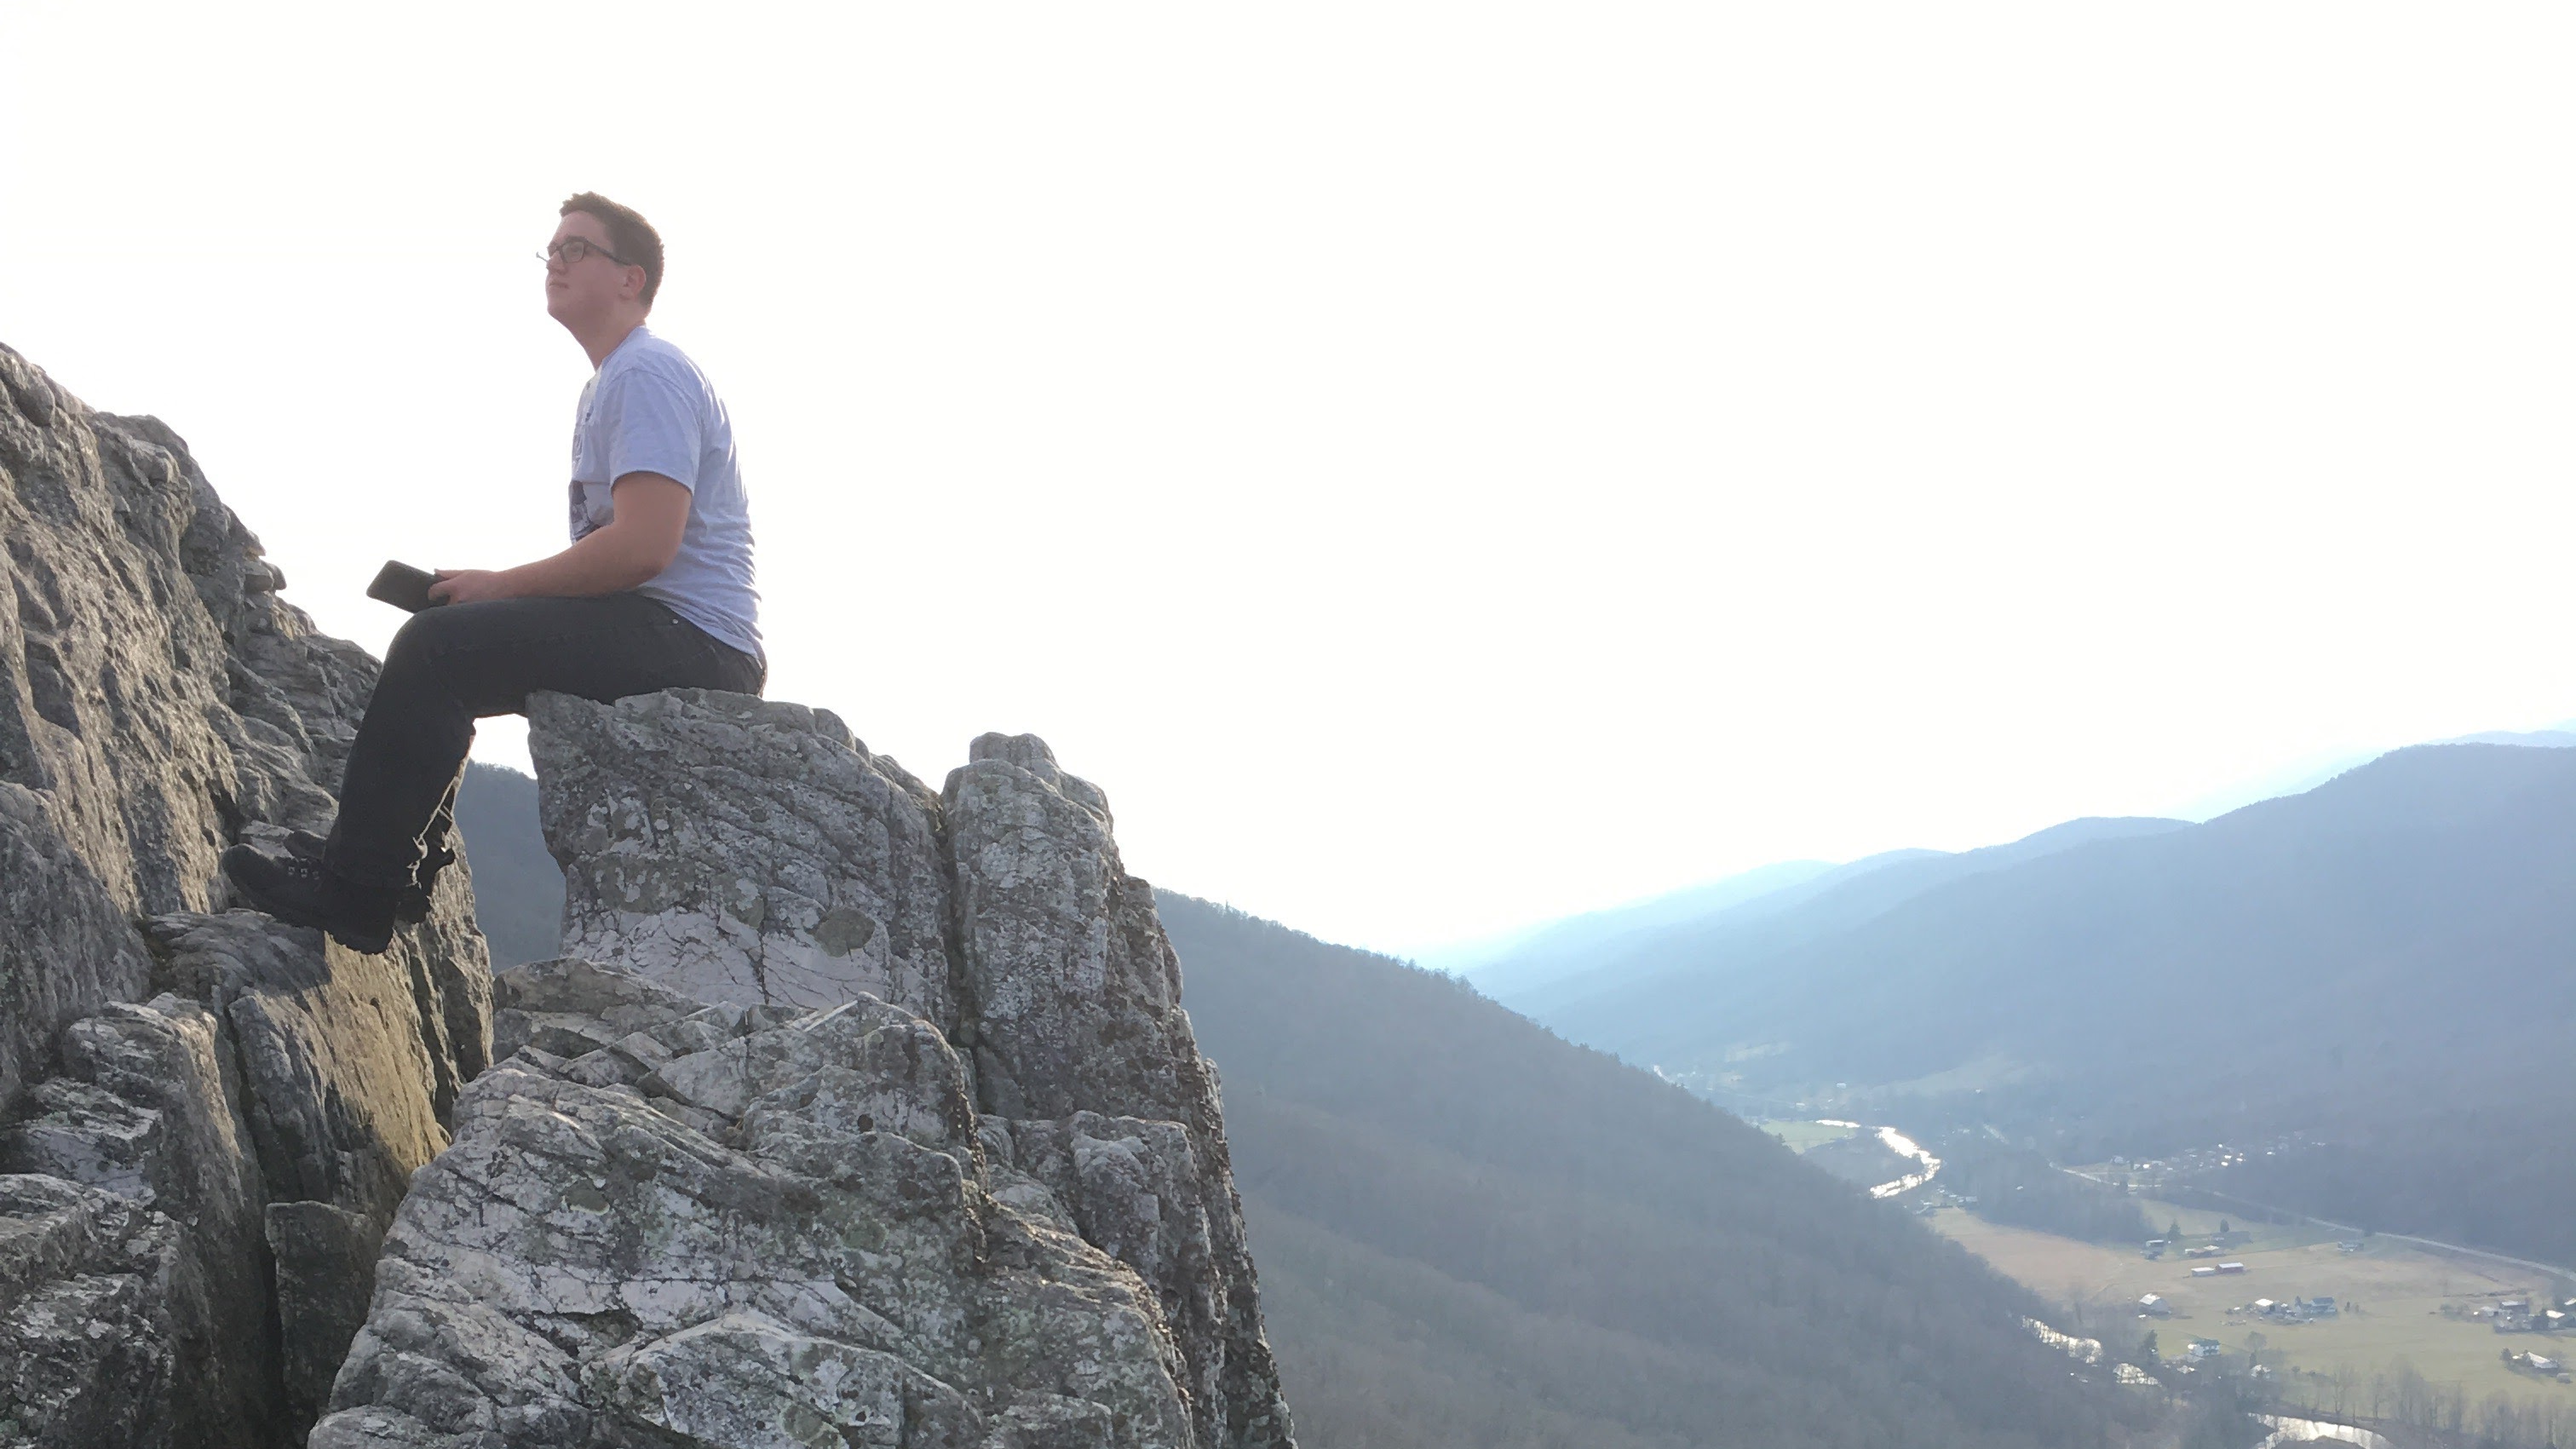
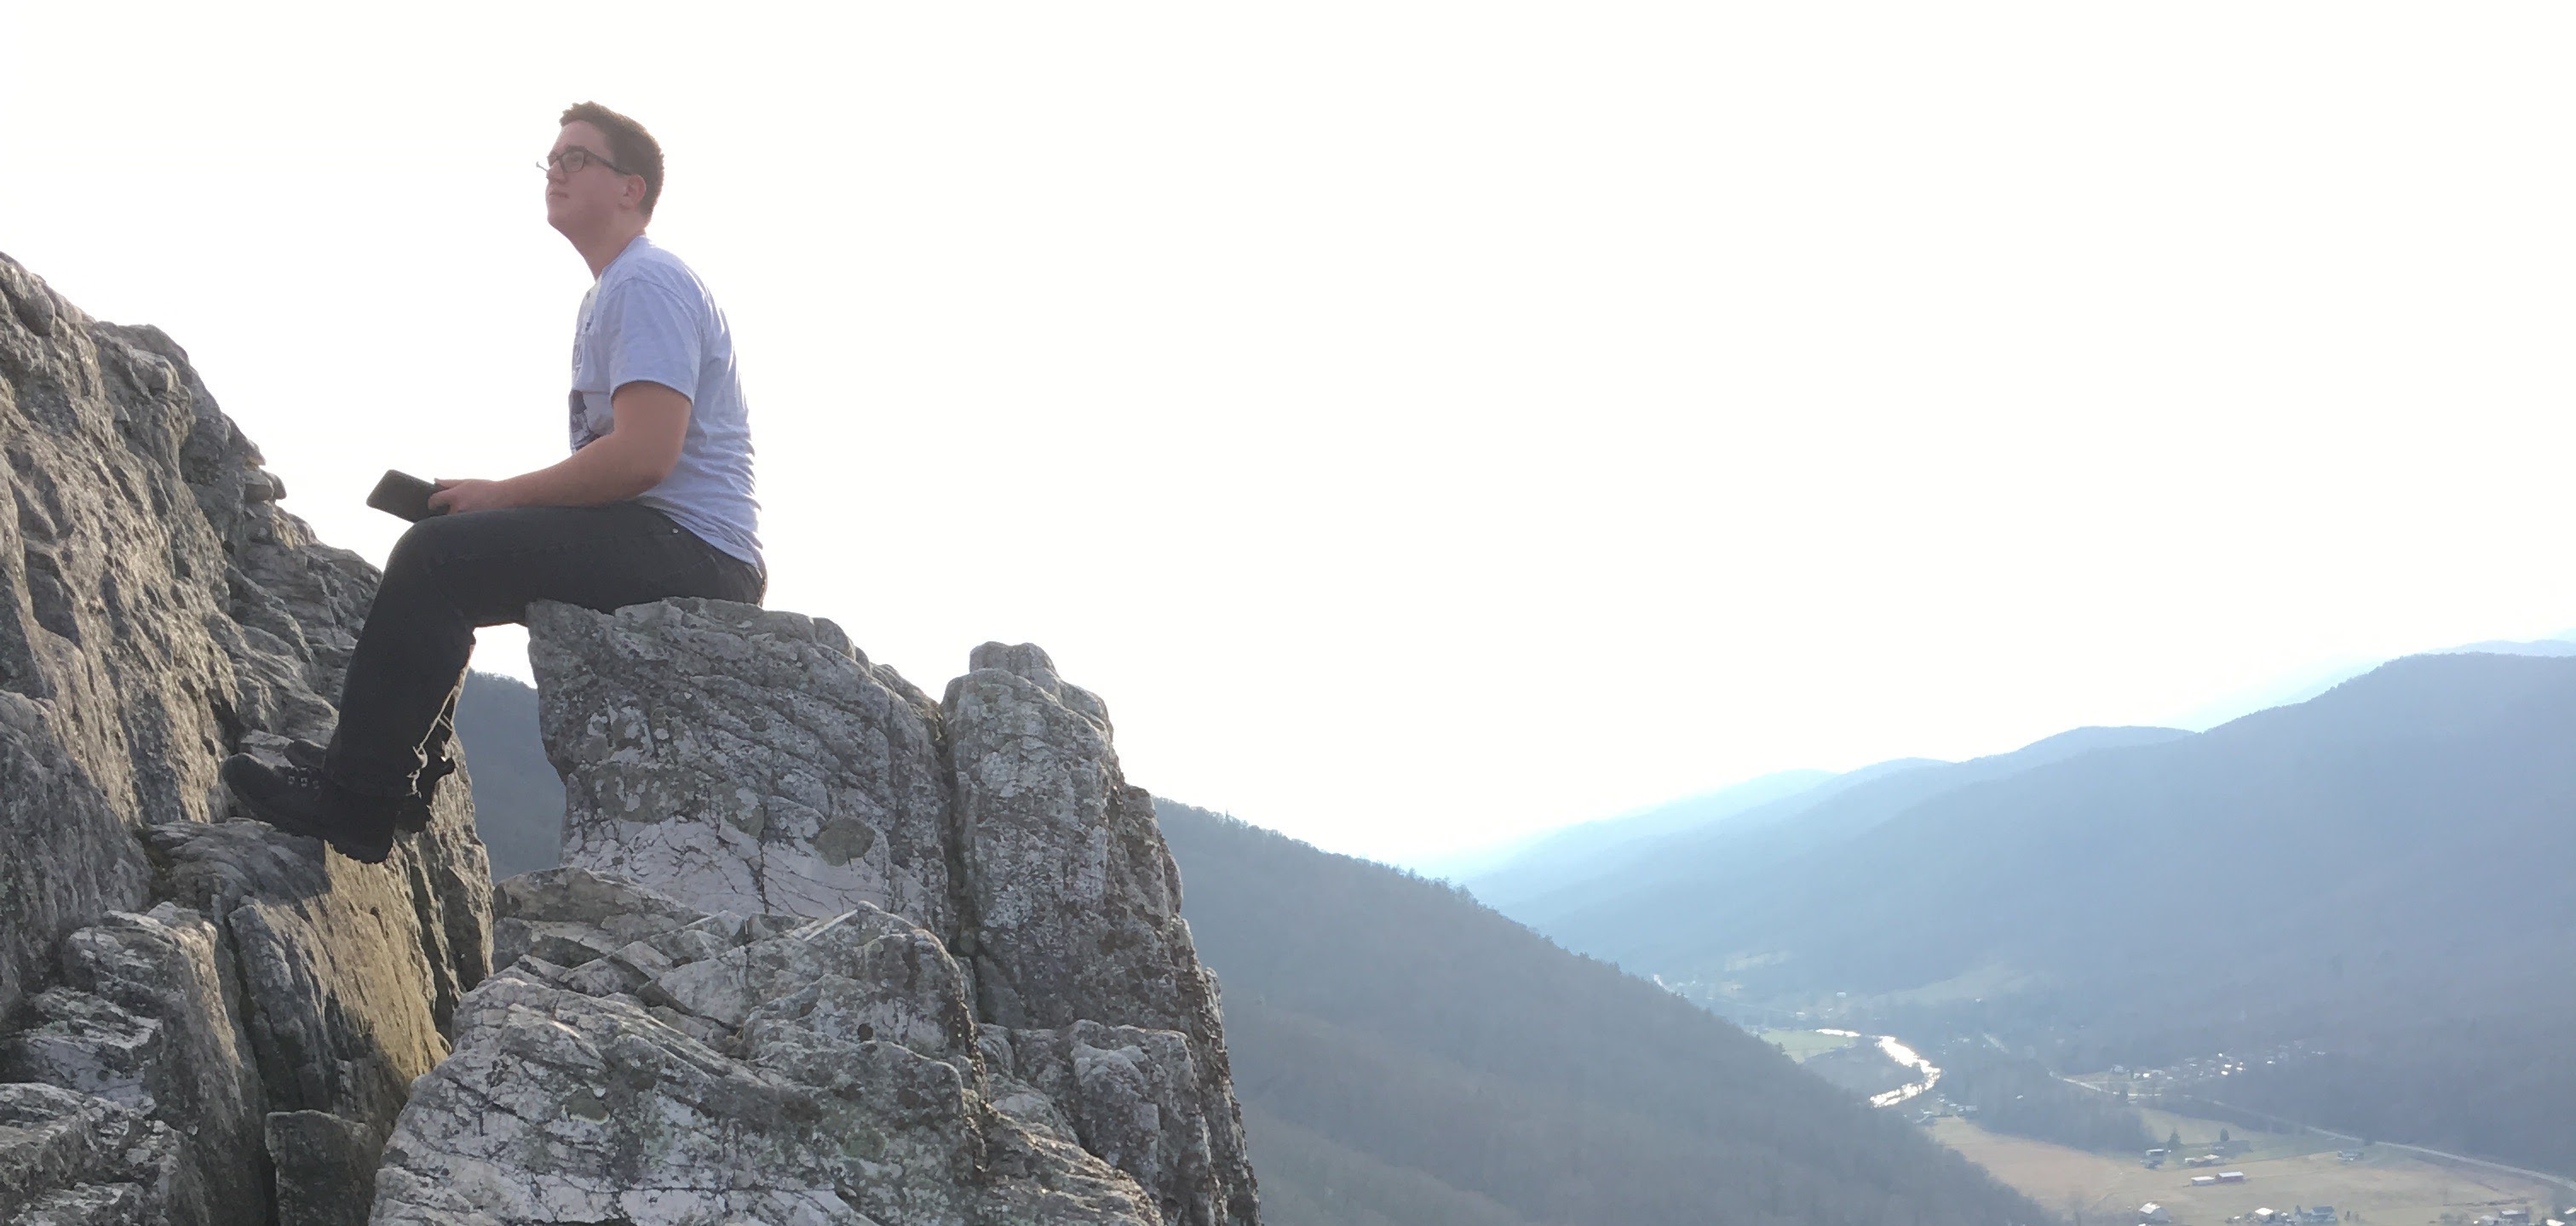
picture aspect ratios to 2.1X1 & see thru navbar

Changed region(s): [[0.0, 0.0625, 1.0, 1.0], [0.1554, 0.375, 0.2176, 0.4062]]

diff --git a/app/views/portfolio/src/CSS/navbar.css b/app/views/portfolio/src/CSS/navbar.css
@@ -1,3 +1,3 @@
 .header {
-    background-color: rgba(52,58,64, .8)
+    background-color: rgba(52,58,64, .85)
 }
